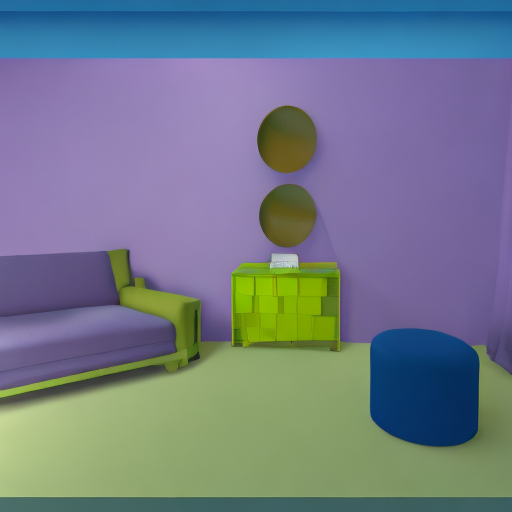
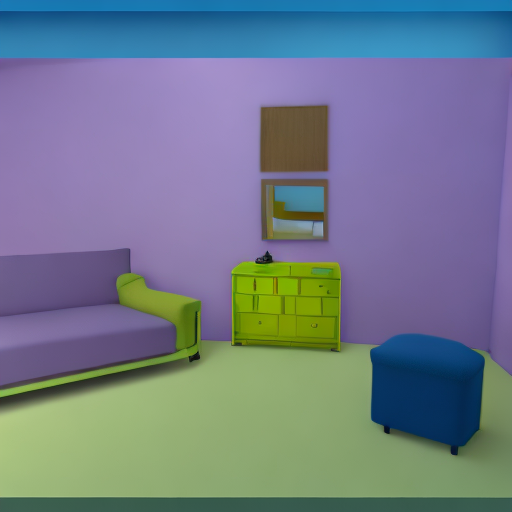
baseline test outputv3

diff --git a/dreambooth_img2img.py b/dreambooth_img2img.py
@@ -30,7 +30,7 @@ pipe.load_lora_weights(lora_weights_path)
 pipe = pipe.to("cuda")
 
 # Define the prompt
-prompt = "generate a realistic interior room design with realistic colors that follows the layout of the provided segmentation image"
+prompt = "generate a realistic interior room design that follows the layout of the provided idmap image but uses realistic colors. do not use the same colors as the idmap image"
 
 # Set generator for reproducibility
 generator = torch.Generator("cuda").manual_seed(seed)
